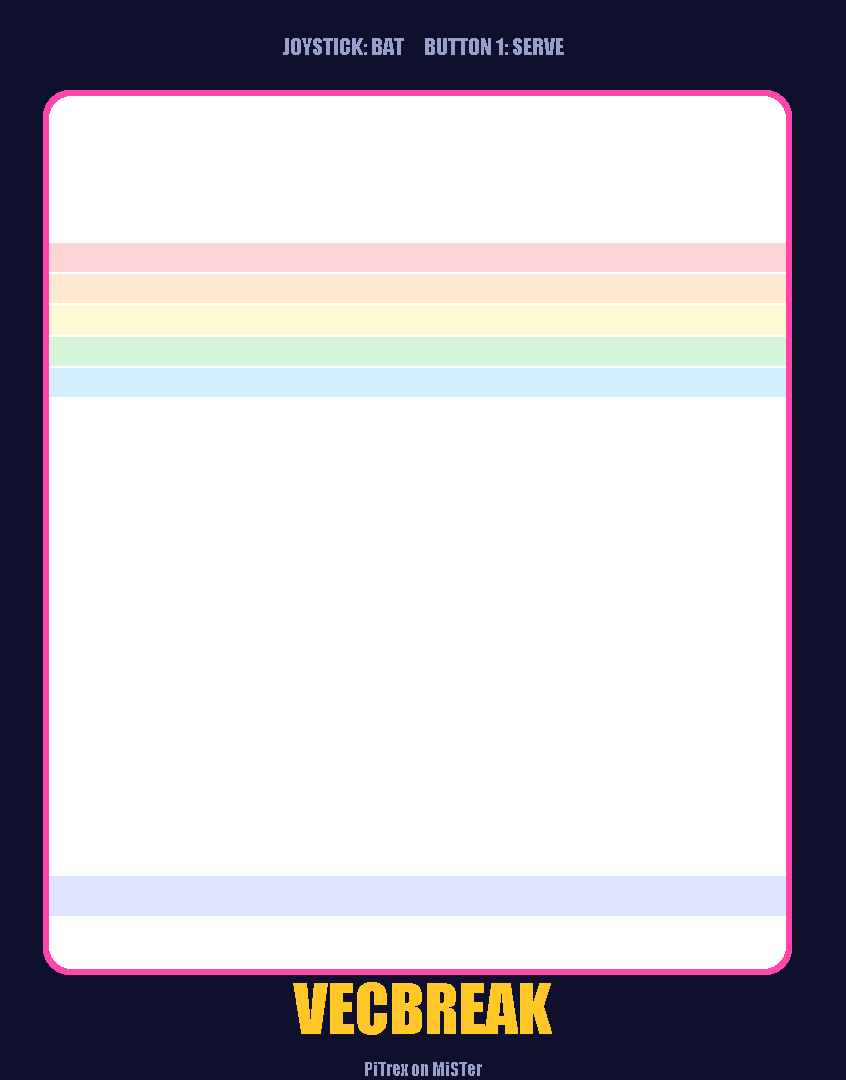
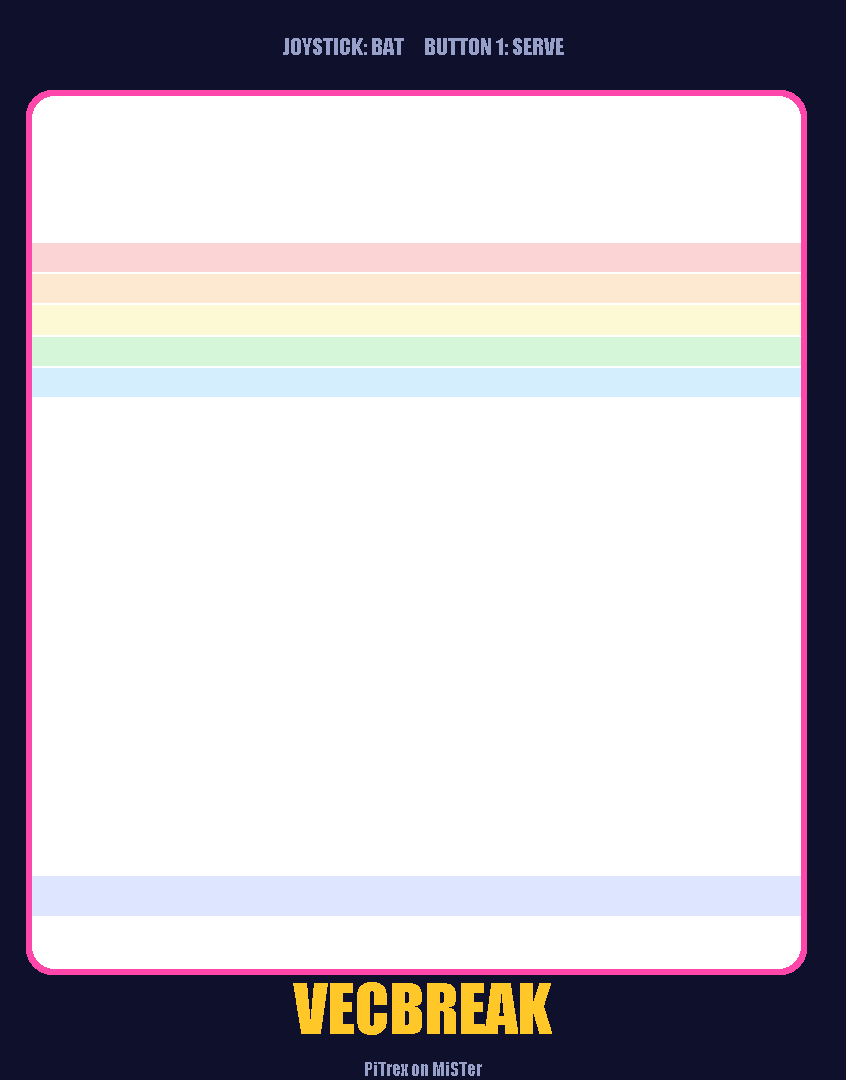
PiTrex B5 ARM side: core read-check before any write, coded heartbeat
- Refuse to start unless /tmp/CORENAME is VECTREX; then wait read-only for
  the core's live status signature (PTXC + moving sequence counter).
- Heartbeat word = {~hb ^ PTRX, hb}, ticked every frame and in every wait.
- While running, stop at once (no further writes) if the counter stalls
  or the core changes.
- PROTOCOL.md: handshake as agreed with Videodr0me; final VecBreak overlay
  calibration.

Changed region(s): [[0.0307, 0.0611, 0.0922, 0.9167], [0.922, 0.0611, 0.9527, 0.9167]]

diff --git a/pitrex/src/ptx_backend_mister.c b/pitrex/src/ptx_backend_mister.c
@@ -41,7 +41,7 @@
 typedef struct {
 	volatile uint32_t magic, version, log2n, pad0;
 	volatile uint64_t wr_idx;
-	volatile uint32_t heartbeat;
+	volatile uint32_t hb_lo, hb_hi;          /* coded heartbeat: hi = ~lo ^ PTX_MAGIC */
 } arm_hdr_t;
 
 typedef struct {
@@ -60,6 +60,57 @@ static volatile uint64_t *ring;
 static uint64_t wr, published;
 static uint64_t frame_end[8];
 static uint32_t n_frames;
+static uint32_t hb;
+static int core_lost;                  /* set once the core stops answering: never write again */
+static uint32_t last_seq;
+static long last_seq_ms, last_name_ms;
+
+static long now_ms(void)
+{
+	struct timespec t;
+	clock_gettime(CLOCK_MONOTONIC, &t);
+	return t.tv_sec * 1000L + t.tv_nsec / 1000000L;
+}
+
+/* Rule 1 (no writes unless the Vectrex core is running): MiSTer Main names the
+   loaded core in /tmp/CORENAME. */
+static int vectrex_core_loaded(void)
+{
+	char name[64] = {0};
+	FILE *f = fopen("/tmp/CORENAME", "r");
+	if (!f) return 0;
+	size_t n = fread(name, 1, sizeof name - 1, f);
+	fclose(f);
+	while (n && (name[n - 1] == '\n' || name[n - 1] == '\r' || name[n - 1] == ' ')) name[--n] = 0;
+	return strcmp(name, "VECTREX") == 0;
+}
+
+/* The core writes its status block (signature "PTXC", input sequence counter)
+   only while PiTrex Mode is on; a moving counter proves it is live right now,
+   which stale RAM cannot. */
+static int core_signature(void) { return st->build_magic == 0x43585450u; }
+
+static void check_core_alive(void)
+{
+	if (core_lost) return;
+	long t = now_ms();
+	if (in->seq != last_seq) { last_seq = in->seq; last_seq_ms = t; }
+	int ok = core_signature() && t - last_seq_ms < 500;
+	if (ok && t - last_name_ms >= 1000) { last_name_ms = t; ok = vectrex_core_loaded(); }
+	if (!ok) {
+		core_lost = 1;
+		fprintf(stderr, "ptx: Vectrex core or PiTrex Mode gone - stopping (no further writes)\n");
+		exit(3);
+	}
+}
+
+static void hb_tick(void)
+{
+	if (core_lost || !hdr) return;
+	hb++;
+	hdr->hb_lo = hb;
+	hdr->hb_hi = ~hb ^ PTX_MAGIC;
+}
 
 /* Every wait also ticks the heartbeat, so it keeps changing (at least once per
    frame, and every few hundred microseconds while blocked) for as long as the
@@ -69,7 +120,8 @@ static void nap_us(long us)
 {
 	struct timespec ts = { 0, us * 1000L };
 	nanosleep(&ts, NULL);
-	if (hdr) hdr->heartbeat++;
+	check_core_alive();
+	hb_tick();
 }
 
 static void publish(void)
@@ -81,6 +133,10 @@ static void publish(void)
 
 static int m_open(void)
 {
+	if (!vectrex_core_loaded()) {
+		fprintf(stderr, "ptx: the Vectrex core is not running (see /tmp/CORENAME)\n");
+		return -1;
+	}
 	memfd = open("/dev/mem", O_RDWR | O_SYNC | O_CLOEXEC);
 	if (memfd < 0) { perror("ptx: /dev/mem"); return -1; }
 	void *p = mmap(0, PTX_MAP_SIZE, PROT_READ | PROT_WRITE, MAP_SHARED, memfd, PTX_DDR_BASE);
@@ -90,12 +146,30 @@ static int m_open(void)
 	st   = (core_status_t *)(base + 0x0040);
 	in   = (volatile ptx_input_t *)(base + 0x0080);
 	ring = (volatile uint64_t *)(base + 0x1000);
+	/* Read-only until the core proves it is live with PiTrex Mode on. */
+	long t0 = now_ms(), told = t0;
+	last_seq = in->seq;
+	for (;;) {
+		struct timespec ts = { 0, 5 * 1000000L };
+		nanosleep(&ts, NULL);
+		if (core_signature() && in->seq != last_seq) break;
+		if (!vectrex_core_loaded()) {
+			fprintf(stderr, "ptx: the Vectrex core was unloaded\n");
+			munmap((void *)base, PTX_MAP_SIZE); base = NULL; close(memfd); return -1;
+		}
+		if (now_ms() - told >= 5000) {
+			told = now_ms();
+			fprintf(stderr, "ptx: waiting for the core - turn on OSD > System > PiTrex Mode\n");
+		}
+	}
+	last_seq = in->seq; last_seq_ms = last_name_ms = now_ms();
 	wr = published = st->rd_idx;     /* resume wherever the core is */
 	hdr->version = PTX_VERSION;
 	hdr->log2n = PTX_RING_LOG2;
 	hdr->wr_idx = wr;
+	hb_tick();
 	__sync_synchronize();
-	hdr->magic = PTX_MAGIC;          /* core starts reading once magic is valid */
+	hdr->magic = PTX_MAGIC;          /* with a moving coded heartbeat: the core takes over */
 	return 0;
 }
 
@@ -114,7 +188,8 @@ static void m_frame(uint64_t stream_cycles)
 {
 	(void)stream_cycles;
 	publish();
-	hdr->heartbeat++;
+	check_core_alive();
+	hb_tick();
 	/* Stay at most PTX_LEAD_FRAMES frames ahead of what the core has fetched
 	   (its FIFO is tiny, so fetched ~ played): enough slack for Linux
 	   scheduling, little enough that input still feels immediate. */
@@ -156,8 +231,10 @@ static void m_status(ptx_status_t *o)
 static void m_close(void)
 {
 	if (!base) return;
-	publish();
-	hdr->magic = 0;                  /* core drops out of streaming */
+	if (!core_lost) {
+		publish();
+		hdr->magic = 0;              /* core hands back to the 6809 at once */
+	}
 	munmap((void *)base, PTX_MAP_SIZE);
 	close(memfd);
 	base = NULL;

diff --git a/pitrex/games/vecbreak/make_overlay.py b/pitrex/games/vecbreak/make_overlay.py
@@ -14,7 +14,7 @@ from pathlib import Path
 from PIL import Image, ImageDraw, ImageFont
 
 W, H = 846, 1080
-KX, CX = 42.4, 417     # horizontal: units per pixel, centre column
+KX, CX = 41.4, 416     # horizontal: units per pixel, centre column (re-measured on B4)
 KY, CY = 41.5, 534     # vertical: units per pixel, centre row
 FIELD_L, FIELD_R, FIELD_T, FIELD_B = -15000, 15000, 14500, -17500   # match vecbreak.c
 BRICK_TOP, BRICK_STEP, ROWS = 11500, 1300, 5
@@ -48,7 +48,7 @@ def main(out):
     d.fontmode = "1"                                  # no anti-aliasing
 
     # play window: clear, a little outside the walls and score line
-    win = (px(FIELD_L) - 14, 96, px(FIELD_R) + 14, py(FIELD_B) + 12)
+    win = (px(FIELD_L) - 22, 96, px(FIELD_R) + 22, py(FIELD_B) + 12)
     d.rounded_rectangle((win[0] - 6, win[1] - 6, win[2] + 6, win[3] + 6), radius=26, fill=RIM)
     d.rounded_rectangle(win, radius=22, fill=(0, 0, 0, 0))
 

diff --git a/pitrex/PROTOCOL.md b/pitrex/PROTOCOL.md
@@ -30,13 +30,25 @@ all reads itself from a shadow VIA plus a per-frame input block written by the c
 | 0x0080 | 64 B | core | Input block: buttons (4 per pad × 2), analog X/Y per pad (signed 8-bit), sequence number |
 | 0x1000 | N × 8 B | ARM | Command ring (power of two entries, e.g. 64 K entries = 512 KB) |
 
-## Presence handshake
-The ARM increments the header heartbeat (word 3, low 32 bits) at least once per frame and
-every few hundred microseconds while it waits, for as long as the program runs; on exit it
-clears the magic. The core treats **magic == "PTRX" and heartbeat changed within the last
-100 ms** as "a PiTrex program is present". Stale DDR contents after a crash or reboot keep
-the magic but not a moving heartbeat, so they never look present. The core can use this to
-grey out the OSD option, or to run PiTrex mode only while (option on && present).
+## Presence handshake (B5, agreed with Videodr0me 20 Oct 2026)
+- **PiTrex Mode Off:** the core does nothing new: no DDR reads or writes, no heartbeat.
+- **PiTrex Mode On:** the core only *listens*. The 6809 keeps running normally (BIOS, the
+  loaded cartridge) and the core writes its status block (signature "PTXC" + build in
+  word 11, an input sequence counter in word 17 that changes every ~0.5 ms).
+- **ARM program start (read-only until confirmed):** `/tmp/CORENAME` must be `VECTREX`; then
+  the program waits, reading only, until word 11 reads "PTXC" *and* the sequence counter
+  moves. Only then does it write the header (wr_idx = the core's rd_idx), the heartbeat and
+  the magic.
+- **Coded heartbeat:** word 3 = {hi = ~lo ^ "PTRX", lo = counter}. The ARM bumps it every
+  frame and in every wait. The core accepts a sample only if magic == "PTRX", hi matches lo
+  and lo differs from the last accepted value. A leftover magic plus a random write by an
+  unrelated program will not pass.
+- **Takeover:** on the first valid heartbeat the core resets the machine, holds the 6809 and
+  starts fetching the ring. **Hand-back:** if no valid new heartbeat arrives for 100 ms, or
+  the magic is cleared (normal exit), it resets the machine and the 6809 runs again.
+- **While running:** the ARM keeps checking that the counter moves (< 500 ms) and that
+  `/tmp/CORENAME` is still `VECTREX` (once a second). If not, it stops at once and exits
+  without writing anything else.
 
 ## Command word (64-bit)
 ```

diff --git a/pitrex/README.md b/pitrex/README.md
@@ -32,15 +32,17 @@ VecBreak run at full speed through Videodr0me's renderer, with joystick, buttons
   - OSD: System > **PiTrex Mode**. Switching it resets the machine; switching it off boots the
     BIOS normally.
 
-The full format is in [PROTOCOL.md](PROTOCOL.md), including the presence handshake: while a
-program runs, the header's heartbeat keeps changing, so the core can tell a live PiTrex program
-from stale RAM. Builds identify themselves: Core Info shows the PiTrex build, and the self-test
+The full format is in [PROTOCOL.md](PROTOCOL.md), including the presence handshake (B5):
+PiTrex Mode On only makes the core *listen*; the 6809 runs normally until a live program shows
+a coded heartbeat, then PiTrex takes over, and when the program exits or dies the core hands
+back. The program never writes to DDR until it has confirmed the Vectrex core (`/tmp/CORENAME`)
+and the core's live status signature. Builds identify themselves: Core Info shows the PiTrex build, and the self-test
 prints the build the core reports in the status block.
 
 ## Using it on a MiSTer
 1. Build the core (Quartus 17.0.2 Lite; fitter seed 4 meets timing) or use a release build.
-2. Load it, then OSD > System > PiTrex Mode = On. The picture freezes: the machine pauses while
-   the ring is empty.
+2. Load it, then OSD > System > PiTrex Mode = On. The Vectrex keeps running normally until a
+   PiTrex program starts.
 3. Over SSH (root, for `/dev/mem`): `PTX_BACKEND=mister ./ptx_selftest`. Start the core and
    PiTrex Mode **before** the program; the program resumes from the core's read index.
 
